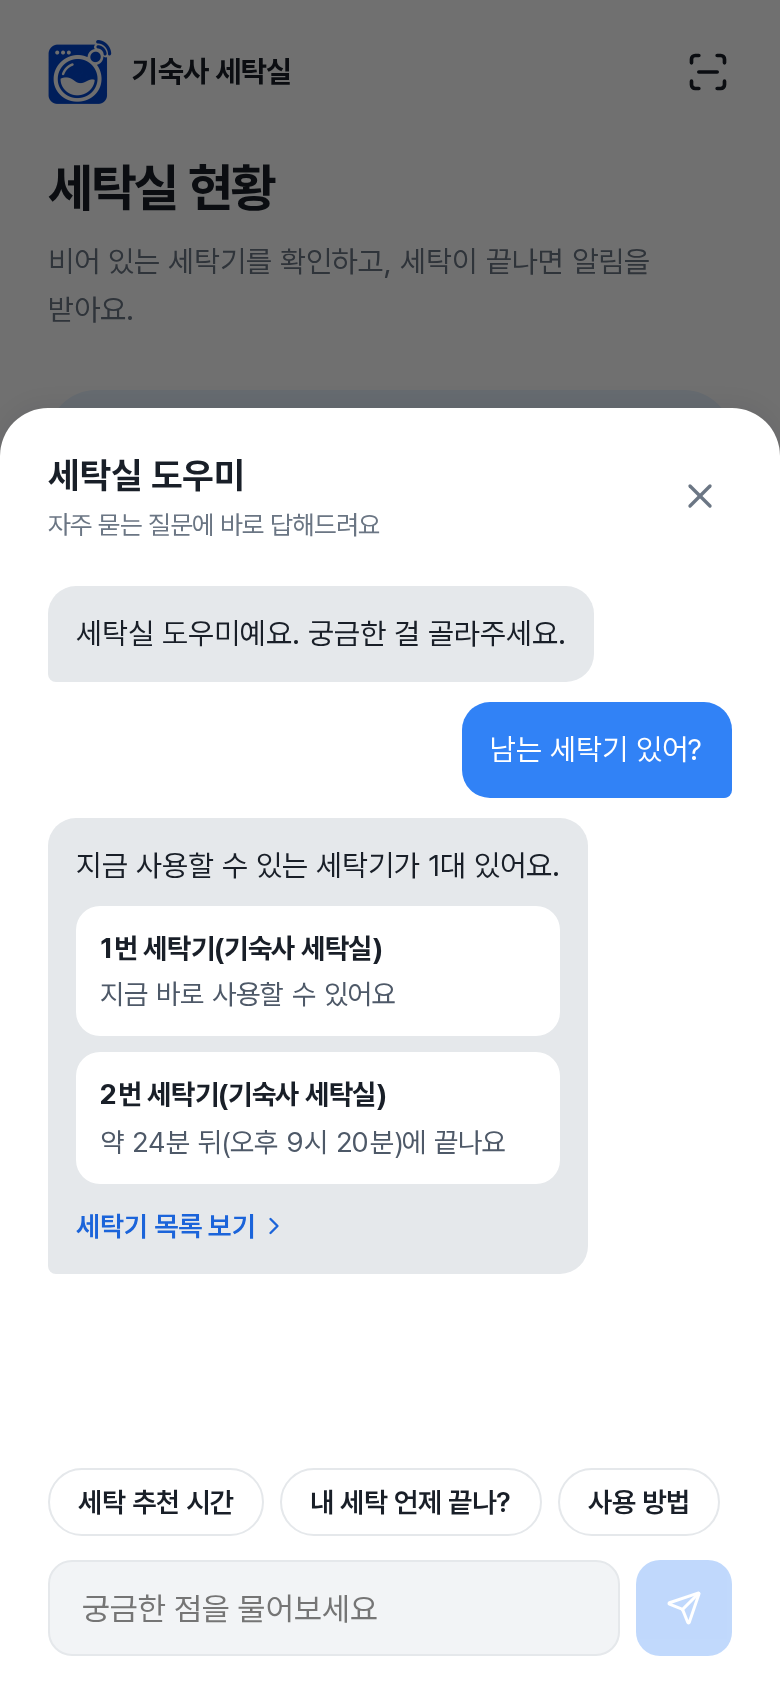
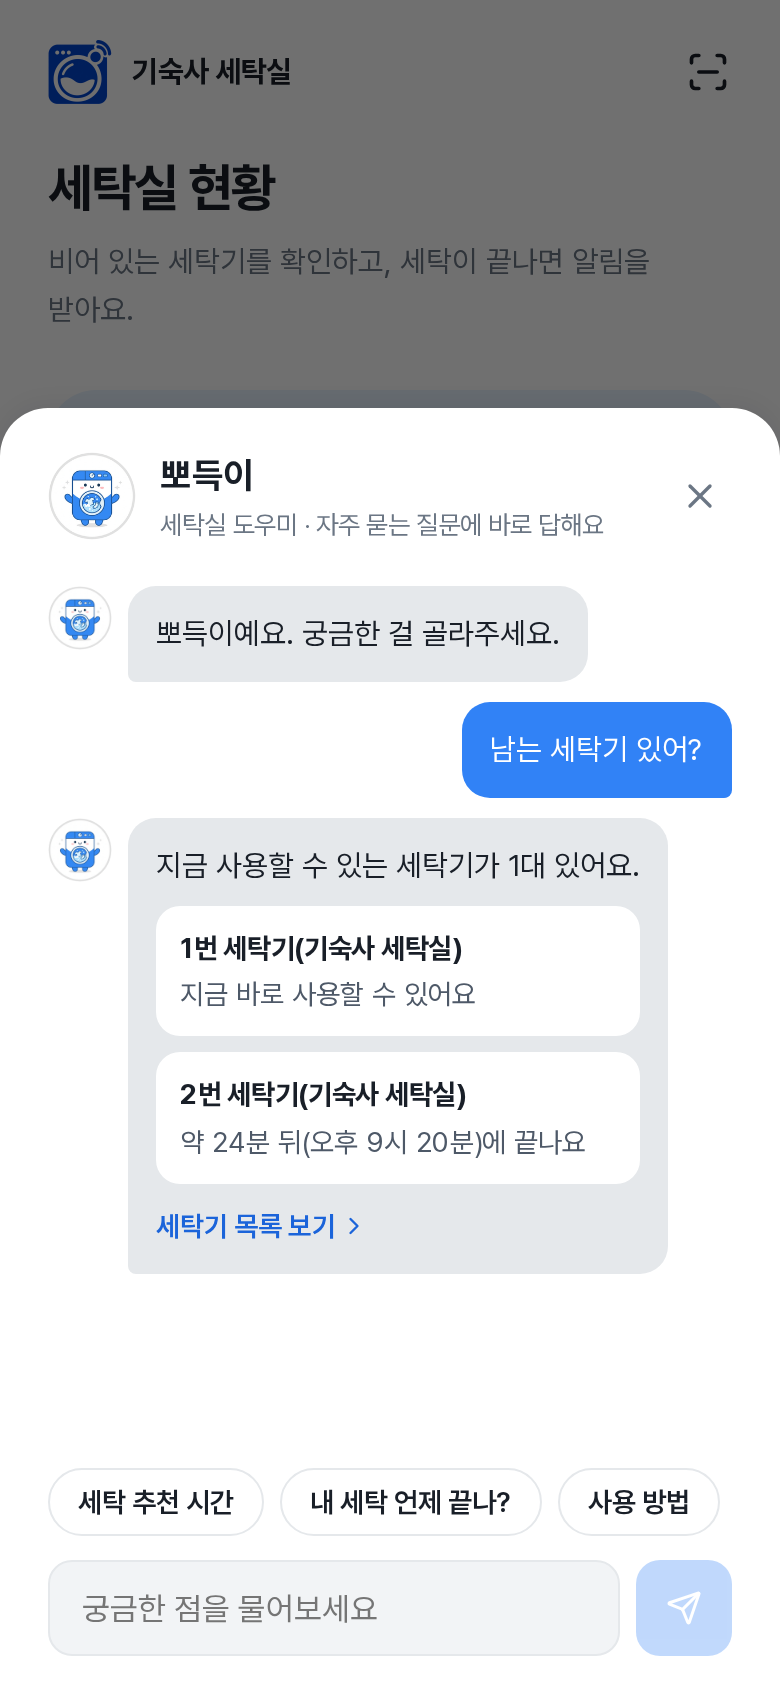
Name the assistant 뽀득이 and give it the mascot
The mascot becomes the chat button, the header avatar and the avatar
beside every bot message. Greeting, labels and README use the new name.
Install screenshots are refreshed.

diff --git a/components/chat-assistant.tsx b/components/chat-assistant.tsx
@@ -1,13 +1,18 @@
 'use client';
 
 import { useEffect, useRef, useState } from 'react';
+import Image from 'next/image';
 import Link from 'next/link';
-import { ChevronRight, MessageCircle, Send, X } from 'lucide-react';
+import { ChevronRight, Send, X } from 'lucide-react';
 import { chipsAfter, splitReply, type AssistantIntent, type AssistantReply } from '@/lib/assistant/answers';
 
 type Message = { id: number; from: 'user' | 'bot'; text: string; links?: AssistantReply['links'] };
 
-const greeting: Message = { id: 0, from: 'bot', text: '세탁실 도우미예요. 궁금한 걸 골라주세요.' };
+const greeting: Message = { id: 0, from: 'bot', text: '뽀득이예요. 궁금한 걸 골라주세요.' };
+
+function Avatar({ size }: { size: number }) {
+  return <Image className="chat-avatar" src="/icons/ppodeuk.png" alt="" width={size} height={size} unoptimized />;
+}
 
 export function ChatAssistant() {
   const [open, setOpen] = useState(false);
@@ -62,23 +67,25 @@ export function ChatAssistant() {
   }
 
   return <>
-    {!open && <button className="chat-fab" type="button" aria-label="세탁실 도우미 열기" aria-expanded={false} onClick={() => setOpen(true)}><MessageCircle size={24} /></button>}
+    {!open && <button className="chat-fab" type="button" aria-label="뽀득이 열기" aria-expanded={false} onClick={() => setOpen(true)}><Avatar size={56} /></button>}
     {open && <div className="chat-scrim" onClick={() => setOpen(false)} aria-hidden="true" />}
-    {open && <section className="chat-panel" role="dialog" aria-label="세탁실 도우미">
+    {open && <section className="chat-panel" role="dialog" aria-label="뽀득이">
       <header className="chat-header">
-        <div><strong>세탁실 도우미</strong><small>자주 묻는 질문에 바로 답해드려요</small></div>
+        <div className="chat-title"><Avatar size={44} /><div><strong>뽀득이</strong><small>세탁실 도우미 · 자주 묻는 질문에 바로 답해요</small></div></div>
         <button className="chat-close" type="button" aria-label="닫기" onClick={() => setOpen(false)}><X size={20} /></button>
       </header>
       <div className="chat-log" aria-live="polite">
-        {messages.map((message) => <div key={message.id} className={`chat-bubble ${message.from}`}>
-          {message.from === 'user' ? <p>{message.text}</p> : splitReply(message.text).map((block, index) => block.kind === 'p'
+        {messages.map((message) => message.from === 'user'
+          ? <div key={message.id} className="chat-bubble user"><p>{message.text}</p></div>
+          : <div key={message.id} className="chat-row"><Avatar size={32} /><div className="chat-bubble bot">
+          {splitReply(message.text).map((block, index) => block.kind === 'p'
             ? <p key={index}>{block.text}</p>
             : block.kind === 'ul'
               ? <ul key={index} className="chat-list">{block.items.map((item, i) => <li key={i}>{item.title && <strong>{item.title}</strong>}<span>{item.body}</span></li>)}</ul>
               : <ol key={index} className="chat-steps">{block.items.map((item, i) => <li key={i}><span>{item.body}</span></li>)}</ol>)}
           {message.links?.map((link) => <Link key={link.href} className="chat-link" href={link.href} onClick={() => setOpen(false)}>{link.label}<ChevronRight size={14} aria-hidden="true" /></Link>)}
-        </div>)}
-        {busy && <div className="chat-bubble bot chat-typing" role="status" aria-label="확인하는 중"><i /><i /><i /></div>}
+        </div></div>)}
+        {busy && <div className="chat-row"><Avatar size={32} /><div className="chat-bubble bot chat-typing" role="status" aria-label="확인하는 중"><i /><i /><i /></div></div>}
         <div ref={bottom} />
       </div>
       <div className="chat-suggestions">

diff --git a/app/globals.css b/app/globals.css
@@ -292,11 +292,13 @@ select.input { appearance: none; padding-right: 36px; background-image: url("dat
 /* ---------- Chat assistant (bottom sheet) ---------- */
 .chat-fab {
   position: fixed; z-index: 30; right: max(20px, calc(50% - 260px)); bottom: calc(20px + env(safe-area-inset-bottom));
-  display: grid; place-items: center; width: 56px; height: 56px; border: 0; border-radius: 50%;
-  background: var(--blue-500); color: #fff; cursor: pointer; box-shadow: 0 4px 16px rgb(25 31 40 / 0.18);
+  display: grid; place-items: center; width: 56px; height: 56px; padding: 0; border: 0; border-radius: 50%;
+  background: #fff; cursor: pointer; box-shadow: 0 4px 16px rgb(25 31 40 / 0.18);
   transition: transform var(--dur-fast) var(--ease), bottom var(--dur-base) var(--ease);
 }
-.chat-fab:active { transform: scale(0.94); background: var(--blue-600); }
+.chat-fab:active { transform: scale(0.94); }
+.chat-avatar { display: block; flex: none; border-radius: 50%; object-fit: cover; }
+.chat-fab .chat-avatar { width: 100%; height: 100%; }
 body:has(.action-stack) .chat-fab { bottom: calc(112px + env(safe-area-inset-bottom)); }
 .chat-scrim { position: fixed; z-index: 39; inset: 0; background: rgb(0 0 0 / 0.56); animation: fade-in var(--dur-base) var(--ease); }
 .chat-panel {
@@ -308,15 +310,18 @@ body:has(.action-stack) .chat-fab { bottom: calc(112px + env(safe-area-inset-bot
 @keyframes sheet-in { from { transform: translate(-50%, 24px); opacity: 0; } to { transform: translate(-50%, 0); opacity: 1; } }
 @keyframes fade-in { from { opacity: 0; } }
 .chat-header { display: flex; align-items: center; justify-content: space-between; padding: 20px 20px 12px 24px; }
-.chat-header div { display: flex; flex-direction: column; gap: 2px; }
+.chat-title { display: flex; align-items: center; gap: 12px; }
+.chat-header div div { display: flex; flex-direction: column; gap: 2px; }
 .chat-header strong { font-size: 18px; letter-spacing: -0.01em; }
 .chat-header small { font-size: 13px; color: var(--grey-600); }
 .chat-close { display: grid; place-items: center; width: 40px; height: 40px; border: 0; border-radius: 50%; background: none; color: var(--grey-600); cursor: pointer; }
 .chat-close:active { background: var(--grey-100); }
 .chat-log { flex: 1; display: flex; flex-direction: column; gap: 10px; padding: 8px 24px 16px; overflow-y: auto; }
+.chat-row { display: flex; align-items: flex-start; gap: 8px; align-self: flex-start; max-width: 94%; }
+.chat-row .chat-bubble { max-width: none; min-width: 0; }
 .chat-bubble { max-width: 88%; padding: 12px 14px; border-radius: 14px; background: var(--grey-200); font-size: 15px; line-height: 1.6; }
 .chat-bubble p + p, .chat-bubble p + ul, .chat-bubble p + ol, .chat-bubble ul + p, .chat-bubble ol + p { margin-top: 8px; }
-.chat-bubble.bot { align-self: flex-start; border-bottom-left-radius: 4px; }
+.chat-bubble.bot { border-bottom-left-radius: 4px; }
 .chat-bubble.user { align-self: flex-end; border-bottom-right-radius: 4px; background: var(--blue-500); color: #fff; }
 .chat-list, .chat-steps { display: grid; gap: 8px; margin: 0; padding: 0; list-style: none; }
 .chat-list li { display: grid; gap: 1px; padding: 10px 12px; border-radius: var(--radius-m); background: #fff; }

diff --git a/README.md b/README.md
@@ -68,9 +68,9 @@ curl -X POST "$APP_URL/api/device/washers/1/event" \
 
 `/admin/simulator`의 **기기 이벤트 직접 전송** 패널은 같은 endpoint를 호출하므로, 펌웨어를 만들기 전에 payload와 상태 전이를 그대로 검증할 수 있습니다. **대기 중인 알림 처리** 버튼은 스케줄러를 기다리지 않고 완료·수거 알림을 즉시 처리합니다.
 
-## 세탁실 도우미 (rule-based assistant)
+## 뽀득이 (규칙 기반 세탁실 도우미)
 
-사용자 화면 오른쪽 아래 채팅 버튼으로 여는 도우미입니다. **LLM을 쓰지 않는 규칙 기반**이며, 추천 질문(남는 세탁기, 내 세탁 종료 시각, 세탁 추천 시간, 사용 방법)과 간단한 키워드 입력을 `POST /api/assistant`의 고정된 조회 함수로 연결합니다. 모든 숫자는 DB에서 계산하고, 이해하지 못한 질문은 추천 질문으로 안내합니다. 추천 시간은 최근 30일의 세탁 시작 시각을 한국 시간 기준 시간대별로 집계하며, 기록이 10건 미만이면 추천하지 않고 현재 상태를 대신 알려줍니다. 답변 로직은 `lib/assistant/answers.ts`(순수 함수)에 있어 `tests/assistant.test.ts`에서 검증합니다.
+사용자 화면 오른쪽 아래 마스코트 버튼으로 여는 도우미 **뽀득이**입니다. **LLM을 쓰지 않는 규칙 기반**이며, 추천 질문(남는 세탁기, 내 세탁 종료 시각, 세탁 추천 시간, 사용 방법)과 간단한 키워드 입력을 `POST /api/assistant`의 고정된 조회 함수로 연결합니다. 모든 숫자는 DB에서 계산하고, 이해하지 못한 질문은 추천 질문으로 안내합니다. 추천 시간은 최근 30일의 세탁 시작 시각을 한국 시간 기준 시간대별로 집계하며, 기록이 10건 미만이면 추천하지 않고 현재 상태를 대신 알려줍니다. 답변 로직은 `lib/assistant/answers.ts`(순수 함수)에 있어 `tests/assistant.test.ts`에서 검증합니다.
 
 ## 발표용 데모 데이터 (선택)
 
